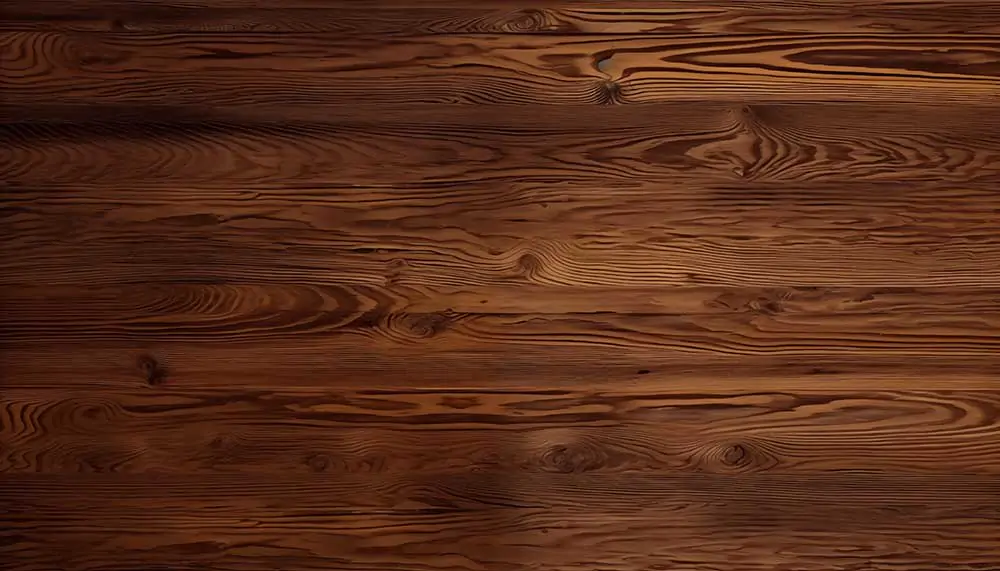
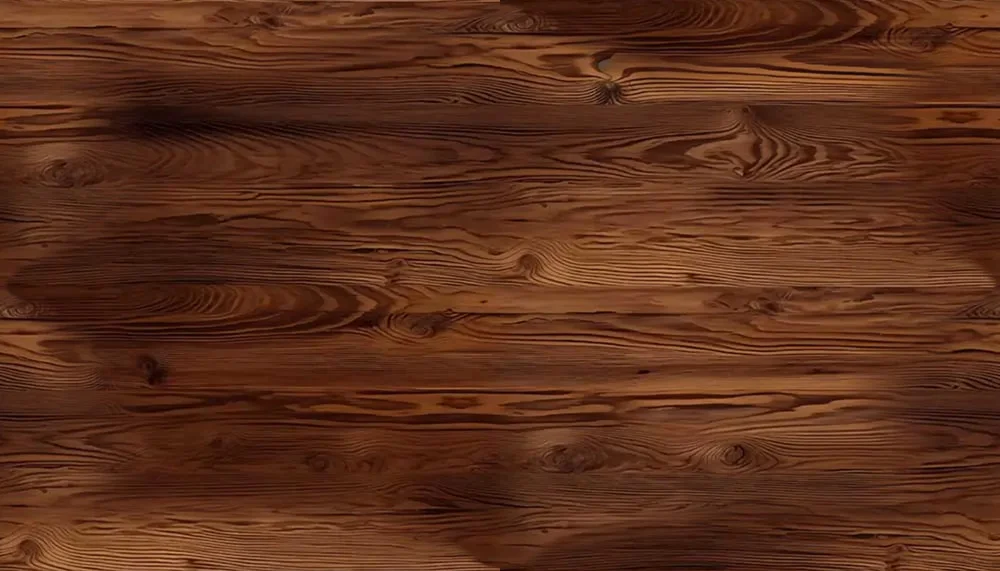
Initals commit!

Changed region(s): [[0.0, 0.0, 1.0, 1.0]]

diff --git a/docs/templates/BestMatches/UkraineMatches.html b/docs/templates/BestMatches/UkraineMatches.html
@@ -12,8 +12,21 @@
     <link rel="stylesheet" href="Matches.css">
     <style>
         body {
-            background-image: url("images/woodUA.avif");
+            background-image: url("images/yb1.jpeg");
+            background-repeat: no-repeat;
+            background-position: center;
+            background-size: cover;
+            background-attachment: fixed;
         }
+      /* body {
+           background: linear-gradient(
+                   135deg,
+                   #f7e308 0%,      !* жёлтый *!
+                   #051d95 33%,     !* синий *!
+                   #f7e308 66%,     !* жёлтый *!
+                   #051d95 100%     !* синий *!
+           );
+       }*/
         .navbar-custom {
             background: linear-gradient(135deg, #051d95 0%, #f7e308 100%);
             border-bottom: 3px solid #f7e308;

diff --git a/docs/templates/BestMatches/Matches.css b/docs/templates/BestMatches/Matches.css
@@ -15,11 +15,11 @@
 body {
     font-family: 'Inter', sans-serif;
     color: var(--text);
+    background-color: #3a2416;        /* тон дерева — не будет белой вспышки при загрузке */
     background-image: url("images/wood.webp");
-    background-size: cover;
-    background-position: center;
-    background-repeat: no-repeat;
-    background-attachment: fixed;
+    background-repeat: repeat;         /* повторяем плитку */
+    background-size: 700px;            /* размер плитки, НЕ cover */
+    background-position: top left;
 }
 
 .container {
